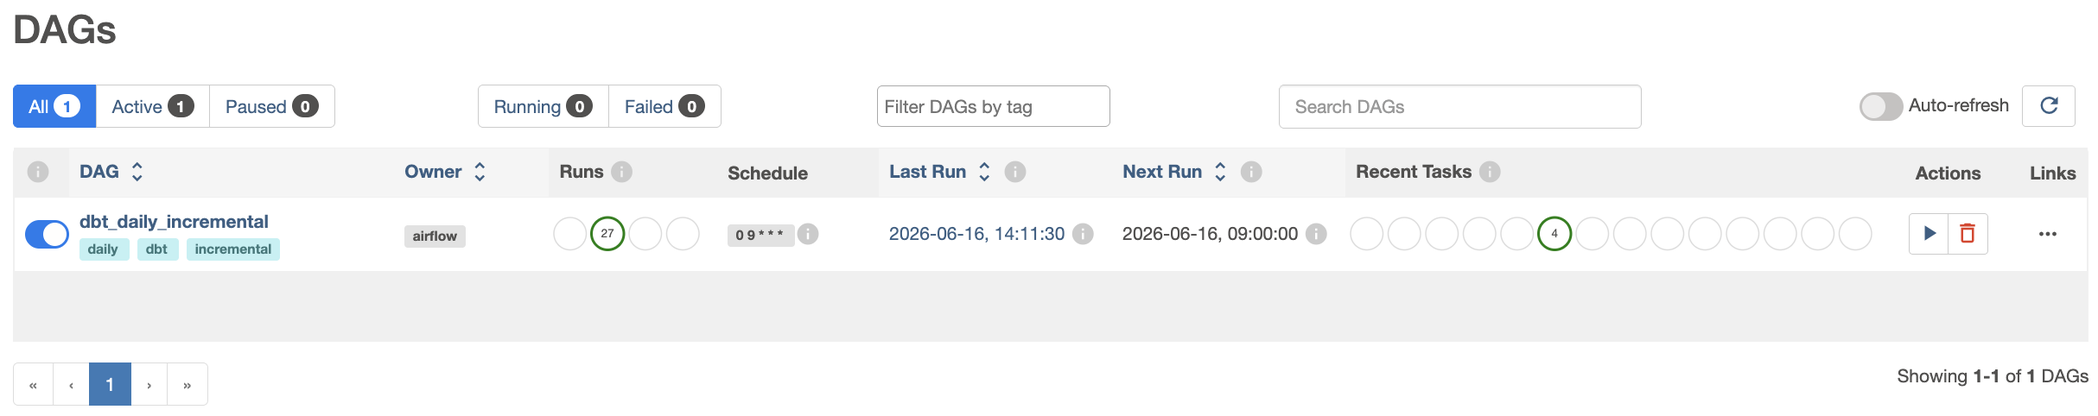
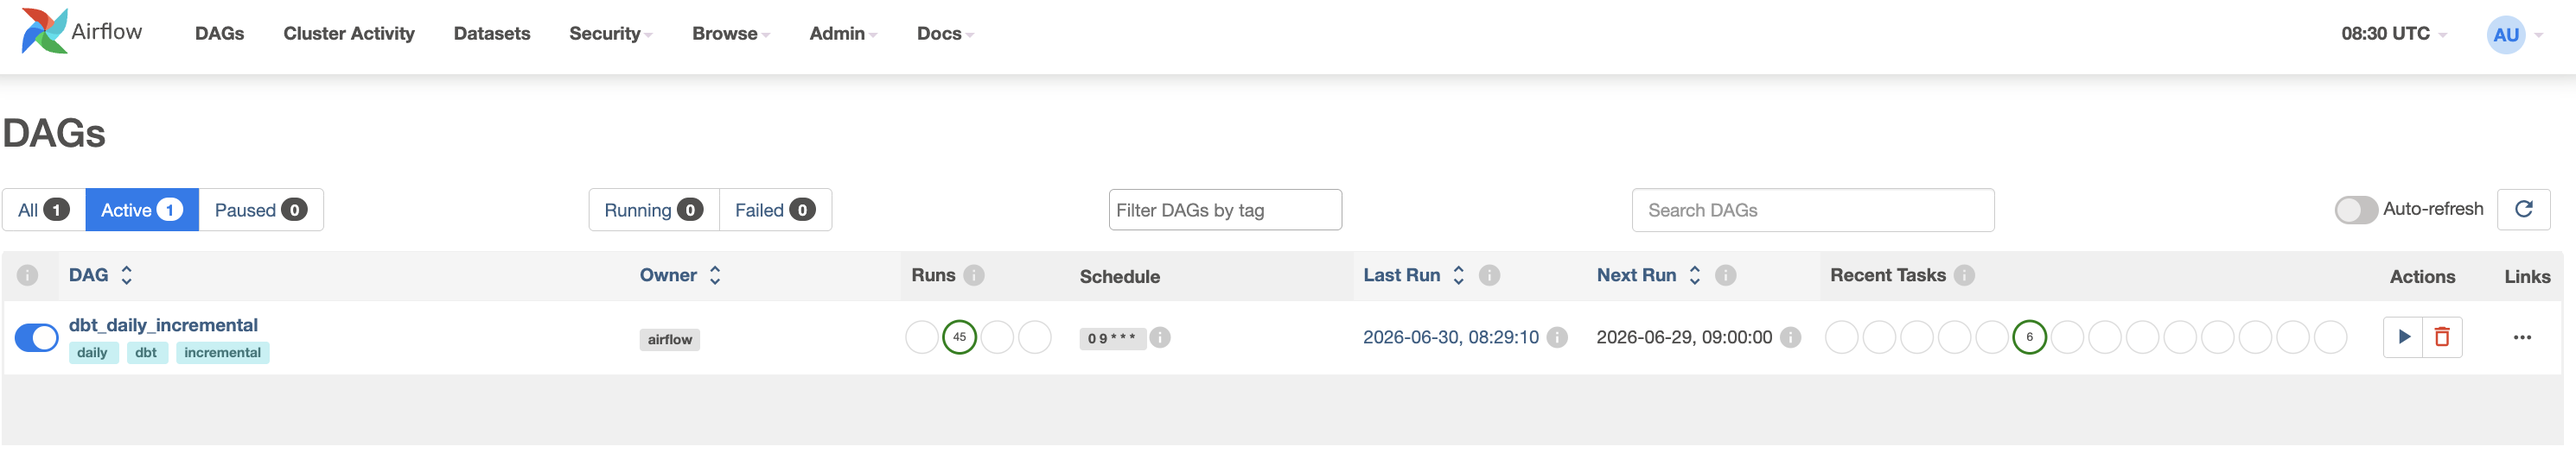
docs: update section 4 Orchestration — refresh Airflow DAG screenshots and caption

diff --git a/README.md b/README.md
@@ -140,7 +140,7 @@ LEFT JOIN {{ ref('scd_products') }} scd
 *DAG list — `dbt_daily_incremental` active and scheduled daily at 09:00 UTC*
 
 ![Airflow DAG Runs](./images/airflow_dag_runs.png)
-*Grid view — all 6 tasks completing successfully across daily runs (Apr–Jun)*
+*Grid view — all 6 tasks completing successfully across daily runs (May–Jun)*
 
 ### 5. SCD Type 2 Snapshot (Product Price Tracking)
 * **File**: 📂 `snapshots/scd_products.sql`
